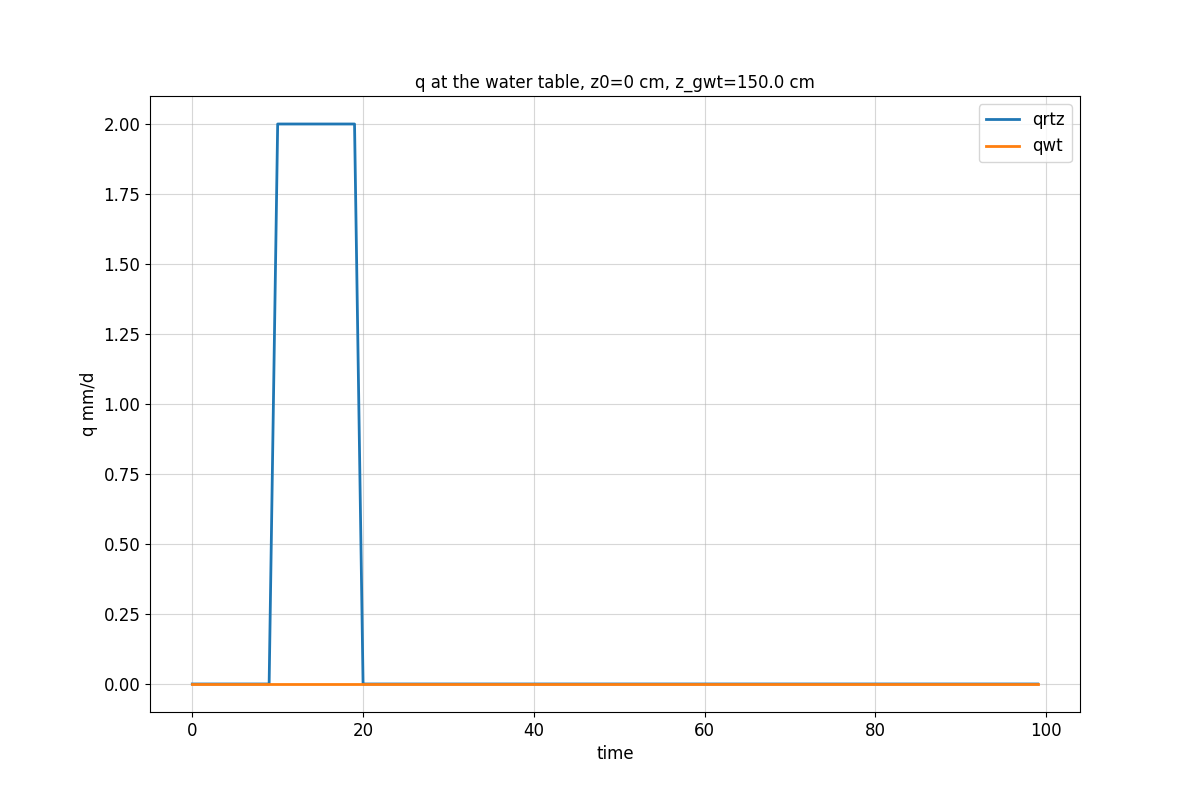
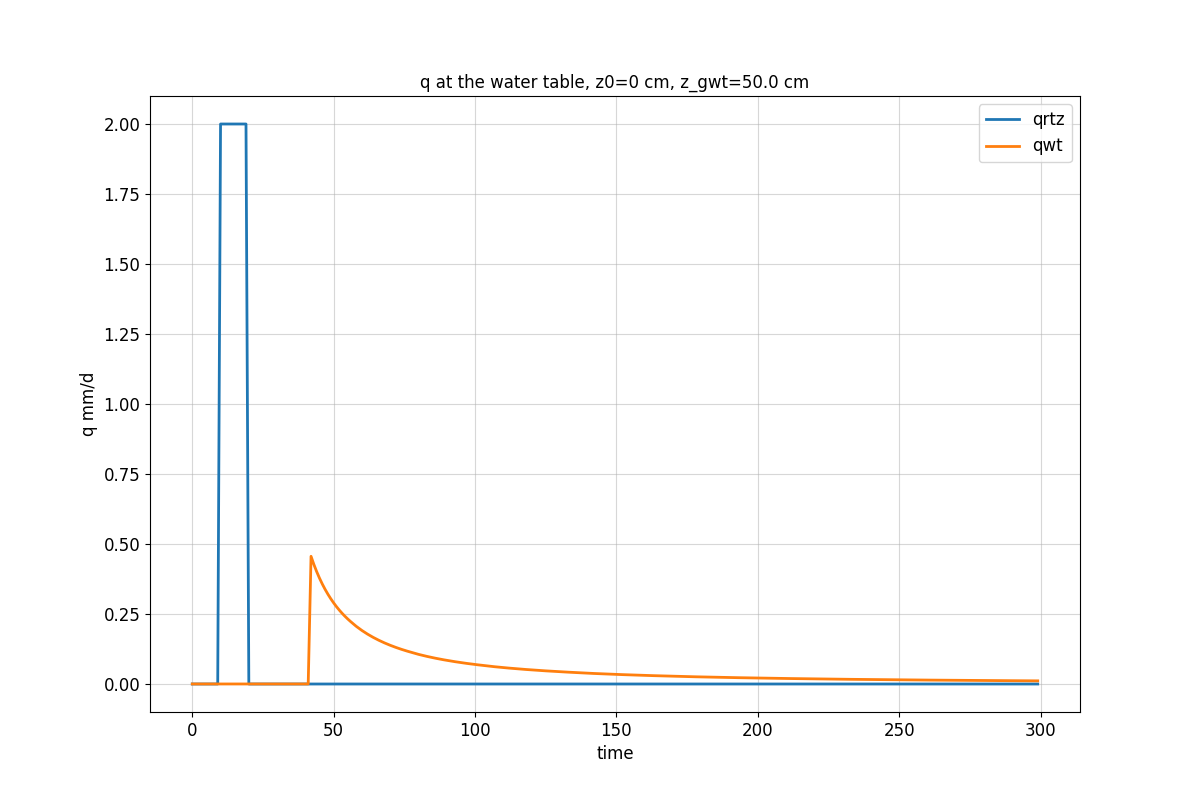
Kinematic wave now yields correct results without carrying along all kind of intermediate points.

diff --git a/Stromingen/Munsflow_H2O_1995/src/kinematic_wave.py b/Stromingen/Munsflow_H2O_1995/src/kinematic_wave.py
@@ -240,21 +240,56 @@ class Kinematic_wave():
         # --- first estimate of the new point positions and velocities
 
         dt = t_next - self.profile['t'][0]
-        # z = self.profile['z'] + self.profile['v'] * dt
-        # x = z - self.z0
-        # t_travelled1 = t_next - self.profile['tst1']
-        # t_travelled2 = t_next - self.profile['tst2']
-        # vavg1 = x / np.fmax(tol, t_travelled1)
-        # vavg2 = x / np.fmax(tol, t_travelled2)
+        
+        if True:
+            # --- for front points adapt theta to new theta and v to mean v over new dt.
+            # --- non-front points keep their velocity
+            Ifr = np.where(np.logical_and(self.profile[:-1]['tst2'] <= self.profile[1:]['tst1'], self.profile[1:]['front']))[0]
 
-        # --- estimates of new theta
-        # self.profile['theta1'] = self.soil.theta_fr_V(vavg1)
-        # self.profile['theta2'] = self.soil.theta_fr_V(vavg2)
+            if Ifr.size > 0: # Indexes of front points
+                Ifr += 1
+                front = self.profile[Ifr]
 
-        # v  = self.point_velocities(self.profile['theta1'], self.profile['theta2'])[1]
-        # self.profile['v'] = v
+                # --- get estimate of vavg at t+dt:
+                # --- This is ((z + vdt) -z0)/((t + dt) - tst1)            
+                vavg1 = (front['z'] + front['v'] * dt) / (front['t'] + dt - front['tst1'])
+                vavg2 = (front['z'] + front['v'] * dt) / (front['t'] + dt - front['tst2'])
 
-        # --- update profile with correcte values
+                # --- Compute theta pertaiing to that point: theta1 estimate --> new theta1
+                # --- test effect of how to change theta
+                scen = 3
+
+                if scen == 1:
+                    # --- Do not change 'theta1'
+                    theta1_end = front['theta1']
+                    theta1_avg = front['theta1']
+                    theta2_end = front['theta2']
+                    theta2_avg = front['theta2']
+                    
+                elif scen == 2:
+                    # Uses average theta and v               
+                    theta1_end = self.soil.theta_fr_V(vavg1)
+                    theta2_end = self.soil.theta_fr_V(vavg2)
+                    theta1_avg = 0.5 * (front['theta1'] + theta1_end)                    
+                    theta2_avg = 0.5 * (front['theta2'] + theta2_end)
+                    
+                elif scen == 3:
+                    # --- Use end theta as theta avg
+                    theta1_end =  self.soil.theta_fr_V(vavg1)
+                    theta2_end =  self.soil.theta_fr_V(vavg2)
+                    theta1_avg = theta1_end                    
+                    theta2_avg = theta2_end
+                else:
+                    raise RuntimeError("Can't get here!")
+                
+
+                # --- Compute average velocity during dt from mean theta1 using mean theta1
+                self.profile['v'     ][Ifr] = self.point_velocities(theta1_avg, theta2_avg)[1]
+                self.profile['theta1'][Ifr] = theta1_end
+                self.profile['theta2'][Ifr] = theta2_end
+                
+
+        # --- update entire profile with corrected theta and v values of front points
         self.profile['z'] += self.profile['v'] * dt
         self.profile['t']  = t_next
         
@@ -302,18 +337,6 @@ class Kinematic_wave():
                 # --- No shocks in (remaining part of) this time step
                 # --- just update the profile to t1
                 self.front_step(t1)
-                
-                # --- adapt front theta                                
-                # TODO -- continuous correction of theta for front points
-                # dtheta/dt = -(VL - vF) partial (theta /partial z)                
-                # Ifr = np.where(self.profile['front'])[0]                
-    
-                # if len(Ifr) > 0:
-                    # Ifr = Ifr[Ifr > 0]
-                    # if len(Ifr) > 0:
-                        # vth1, v, _ = self.point_velocities(self.profile['theta1'][Ifr], self.profile['theta2'][Ifr])                
-                        # dth_dz = (self.profile['theta1'][Ifr] - self.profile['theta2'][Ifr - 1]) / (self.profile['z'][Ifr] - self.profile['z'][Ifr - 1])
-                        # self.profile['theta1'][Ifr] -= (vth1 - v) * dt * dth_dz
                 
                 # --- leave the while loop
                 break
@@ -376,6 +399,7 @@ class Kinematic_wave():
         else:
             # --- tail, new points are generated at the same time and z ---
             N = max(1, int((theta2 - theta1) * 1000))
+            N = 2
             current = np.zeros(N, self.__class__.profile_dtype)
             thetas = np.linspace(theta1, theta2, N)
             current['theta1'] = thetas
@@ -423,15 +447,29 @@ class Kinematic_wave():
 
     
     def get_profiles_obj(self, t: float, date: np.datetime64)-> dict:
-        """Return dict that is added to the profiles for later plotting."""
+        """Return dict that is added to the profiles for later plotting.
         
+        This function is called in the simulation loop and works
+        directly on self.profiles.
+        
+        t and date are stored and not used.
+        
+        t will match self.profile['t']
+        """
+        if t >= 90:
+            pass
+
         # --- get the interpolated z, theta of the profile
+        # --- this line will be used in animation
         z, theta = self.get_profile_line()
         
+        # --- last z where z < z_gwt
         iz = np.where(z <= self.z_gwt)[0][-1]
         
+        # --- interpolate to get theta at exactly z = z_gwt
         theta_iz = np.interp(self.z_gwt, z[iz:], theta[iz:])
         
+        # --- Make the point (z_gwt, theta_iz) the last point of the profile
         z     = np.hstack((z[:iz], self.z_gwt))
         theta = np.hstack((theta[:iz], theta_iz))
         
@@ -499,6 +537,9 @@ class Kinematic_wave():
             # --- Store current profile for later animation ---
             # --- Store profiel at time = t (at the beginning of the day)
             self.profiles[ip]=self.get_profiles_obj(t, date=pe['index'])
+            
+            theta_gwt = self.profiles[ip]['line'][1][-1]
+            pe['qwt'] = self.soil.K_fr_theta(theta_gwt) * mm_per_cm
 
             # --- Update the profile to end of the day (t1 = t + dt)
             # --- evaluate shocktimes
@@ -506,14 +547,15 @@ class Kinematic_wave():
             self.update(dt)
                     
             # --- Get flux at water table
-            qwt = self.q_at_z(self.z_gwt)
-            pe['qwt'] = qwt * mm_per_cm # cm/d --> mm/d (store as mm/d)
-
+            # --- Covered in get_profiles_obj, where theta_gwt = last theta in profile line
+            #qwt = self.q_at_z(self.z_gwt)
+            
             # --- clip points below z_gwt
-            z = self.profile['z']
-            Ip = np.arange(len(z))[z > z_gwt]
-            if len(Ip) > 1:
-                self.profile = self.profile[:Ip[1]]
+            # --- Also covered in get_profiles_obj
+            # z = self.profile['z']
+            # Ip = np.arange(len(z))[z > z_gwt]
+            # if len(Ip) > 1:
+            #     self.profile = self.profile[:Ip[1]]
         
         # --- Store profile at end of the last day
         # --- Get last time step size
@@ -523,7 +565,7 @@ class Kinematic_wave():
         return pd.DataFrame(recharge)
       
 
-    def get_profile_line(self, dz=10):
+    def get_profile_line(self, dz=10, tol=0.001):
         """Interpolate between profiles to get a continuous smooth wave between the sub profiles.
         
         We have a single large profile over the total depth of the percolation zone.
@@ -545,19 +587,38 @@ class Kinematic_wave():
             # --- number of points to be interpolated (>= dz cm apart)
             N = 2 + int((z2 - z1) / dz)
 
-            # --- If the two thetas are the same, constant theta, no interpolation necessary
-            if np.isclose(p1['theta2'], p2['theta1']) or N < 3:
+            # --- If the two thetas are the same, constant theta, --> no interpolation necessary
+            if np.isclose(p1['theta2'], p2['theta1'], tol) or N < 3:
                 z     += [z1, z2]
                 theta += [p1['theta2'], p2['theta1']]
                 continue
             else:
-                # --- interpolate N points including ends                
+                # --- interpolate N points including the ends                
                 z_ = np.linspace(z1, z2, N)
-                v_avg  = (z_ - self.z0) / (t - p2['tst1'])
+                v_avg  = (z_ - self.z0) / (t - p1['tst2'])
                 theta_ = self.soil.theta_fr_V(v_avg)
+                                
+                # --- Check and compare with the profile
+                # --- Use the profile values at the ends of the itnerpolated points
+                # --- They should match the interpolated values
+                theta_[[0, -1]] = p1['theta2'], p2['theta1']
                 z     += list(z_)
                 theta += list(theta_)
+                
+        # --- End the curve at the groundwater table
+        z, theta = np.array(z), np.array(theta)
+        I_ =[np.where(z <  self.z_gwt)[0][-1], np.where(z >= self.z_gwt)[0][ 0]]
+        
+        # --- Get theta at z_gwt
+        theta_gwt = np.interp(self.z_gwt, z[I_], theta[I_])
+        
+        # --- Generate the curve ending on exactly z_gwt
+        mask = z < self.z_gwt
+        z     = np.hstack((z[    mask], self.z_gwt))
+        theta = np.hstack((theta[mask], theta_gwt))  
+                
         return np.array(z), np.array(theta)
+
 
     def plot_profiles(self, ax=None):
         """Plot the profiles on given axes."""
@@ -681,8 +742,7 @@ def change_meteo_for_testing(meteo: pd.DataFrame, N: float=180, m:float = 1)-> p
     meteo.loc[:, 'RCH'] = qrz
     return meteo
     
-# %%
-
+# %% =======================
 if __name__ == "__main__":
     
     # %% --- Setup the example usage
@@ -712,7 +772,7 @@ if __name__ == "__main__":
     
     # --- If True, replace rch DataFrame field ['RCH'] with a testing pattern
     if True:
-        rch = change_meteo_for_testing(rch, N=10, m=1)[rch.index < rch.index[0] + np.timedelta64(100, 'D')]
+        rch = change_meteo_for_testing(rch, N=10, m=1)[rch.index < rch.index[0] + np.timedelta64(300, 'D')]
         # rch.loc[rch.index > rch.index[0] + np.timedelta64(10, 'D'), 'RCH'] = 2
 
     # %% --- Second step get the soil and simulate the kinematic wave
@@ -726,7 +786,7 @@ if __name__ == "__main__":
     # --- Initialize the Kinematic Wave profile
     
     # --- Root zone and gwroundwater table depth in cm
-    z_rz, z_gwt = 0, 150.
+    z_rz, z_gwt = 0, 50.
     
     # --- Generate the initial profile
     z_theta = np.zeros(10, dtype=Kinematic_wave.z_theta_dtype)
